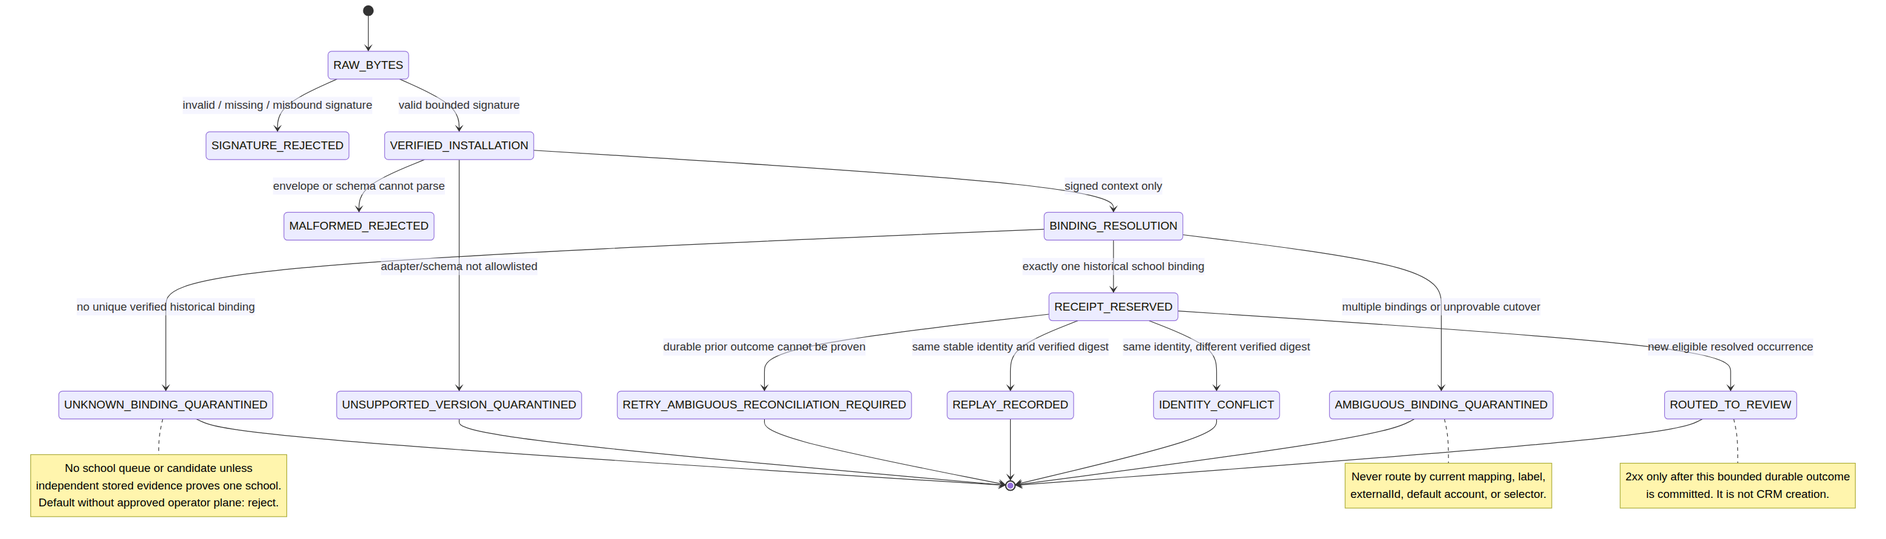
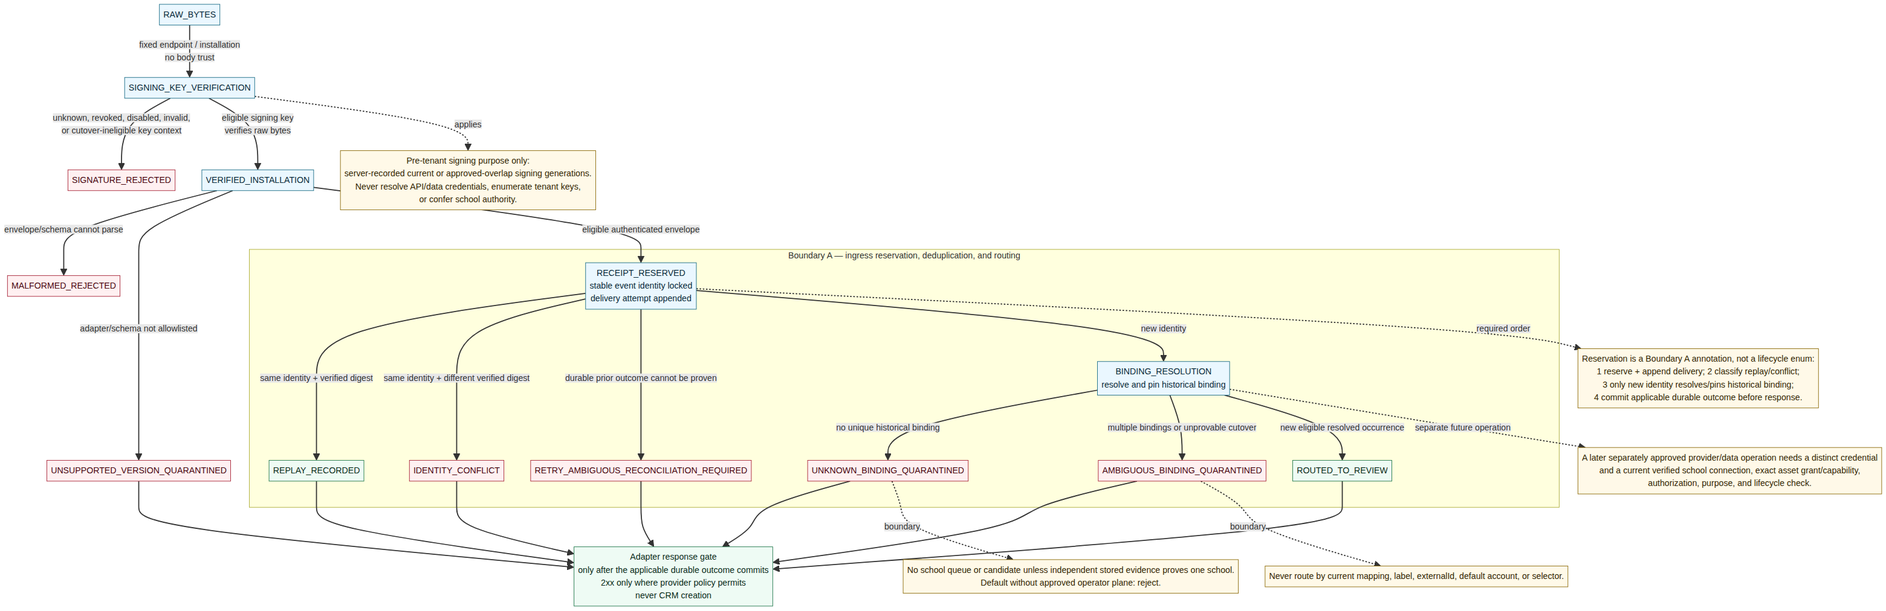
docs(crm): clarify phase 2a review recovery

diff --git a/docs/architecture/PHASE_2A_INTEGRATION_INGRESS_DESIGN.md b/docs/architecture/PHASE_2A_INTEGRATION_INGRESS_DESIGN.md
@@ -44,7 +44,12 @@ For Phase 2A, the only relevant proposed #79 capability is **`LEAD_RETRIEVAL`**.
 
 Only an opaque `credentialBindingId` and version may appear outside the private credential facility. The vault locator, raw secret, refresh token, OAuth code, signature key, expiry, provider inventory, and raw provider errors must never appear in ordinary connection/mapping/receipt/audit/outbox rows, URLs, browser state, telemetry, logs, or staff projections.
 
-Only named, allowlisted server operations may resolve secret material, after rechecking the current installation, credential-binding, exact school connection, asset grant, capability, lifecycle, and operation purpose. Resolution returns secret material only in process memory to that fixed operation and records redacted operation/version audit evidence. It is never browser-callable, a generic provider client, or a `PUBLIC`/runtime SQL helper.
+Only named, allowlisted server operations may resolve secret material under one of two future purpose-scoped contracts:
+
+1. **Pre-tenant webhook-signature verification.** For a fixed server-registered endpoint and installation/subscription context—not a body-supplied school, profile, asset, or other body context—the verifier may recheck the installation plus signing-binding purpose/lifecycle and resolve only the bounded server-recorded signing-key generation(s) eligible under the current or owner-approved overlap/cutover rule. It verifies bounded raw bytes before parsing or trusting body context. Unknown installation/key context, a revoked or disabled binding, a generation outside the permitted cutover set, or an invalid signature fails closed as `SIGNATURE_REJECTED`. This contract confers no school, candidate, asset, CRM, or provider API/data authority and must neither enumerate nor try tenant secrets.
+2. **Post-routing provider/data operation.** A separate non-signing credential may resolve only after a verified route to exactly one school and a live recheck of the verified school connection, exact asset grant and capability, current authorization, credential-binding lifecycle, and operation purpose. A historical routing result alone is not current provider/data authority.
+
+Webhook signing keys and provider API/data-operation credentials are distinct and may never substitute for one another. In either contract, material returns only in process memory to the fixed operation and records only redacted operation/version audit evidence. It is never browser-callable, a generic provider client, or a `PUBLIC`/runtime SQL helper. This is a future authorization contract only: it authorizes no resolver implementation, secret configuration, provider call, or webhook route.
 
 A future owner-approved **Credential Custody Policy** decides platform-managed versus school-supplied custody for each purpose, permitted sharing/exclusivity, secret facility, issuer/scope, stewards, emergency revocation, rotation, and overlap/cutover rules. #80’s local `0700` directory and `0600` plaintext file are useful local setup hygiene only; they are not an encrypted multi-tenant vault.
 
@@ -149,7 +154,7 @@ FORCE RLS, a provider signature, a digest, or #80 local key handling are not sub
 | `source_occurrence_id` | Provider lead occurrence: provider + historical verified asset lineage + `leadgenId` | A UI selection or mapping revision |
 | `mapping_revision_id` / resolution | Append-only historical routing evidence | CRM dedup namespace |
 | `review_case_id` / `review_decision_id` | Case lineage and append-only human evidence | CRM effect |
-| `disposition_request_id` | Original human request keyed by reviewer and original idempotency key/fingerprint | A new browser retry key |
+| `disposition_request_id` | Immutable original human command K, keyed by reviewer, frozen organization/school, original idempotency key, and canonical fingerprint | A new browser retry key or current case version |
 | `crm_effect_id` | Reserved canonical CRM result; must be unique for `source_occurrence_id` | An arbitrary provider event |
 | `replay_id` / `event_conflict_id` | Immutable same-digest replay or different-digest conflict observation | New candidate/case/CRM work |
 
@@ -170,15 +175,19 @@ It commits the complete outcome before a `2xx`. It creates no CRM person/lead, C
 
 ### 5.3 Boundary B — human disposition and canonical CRM effect
 
-A later direct-human command has one tenant transaction, with a deterministic reviewed lock order. It rechecks time, signed human identity, exact school, roles/grants, entitlement, case/evidence/mapping/policy versions, source occurrence, original disposition request, reserved CRM effect, and target pipeline/stage after lock waits. In one atomic outcome it:
+A later direct-human command has one tenant transaction, with a deterministic reviewed lock order. Command K is the immutable `disposition_request_id` plus its original idempotency key/fingerprint, signed-human binding, and frozen organization/school.
+
+**Historical result reconciliation comes first.** Before treating a mounted capsule as a fresh execution, the server may reauthorize the same signed human, frozen school, and current result-read authority to inspect K’s own durable result. If K already committed, it returns only K’s original scoped/redacted disposition/effect result—even when K itself closed or advanced the case version. This historical reconciliation is mutation-free: it creates no new decision, CRM effect, lead, audit, outbox item, inert evidence event, browser key, or action. Changed subject/school, missing or revoked result-read authority, unavailable scoped receipt, controller unmount, or full-document loss deny recovery. Historical result reconciliation is not inbound `ReceiptDisposition.REPLAY`.
+
+**Fresh execution is allowed only after no durable result is proven.** It then rechecks time, signed human identity, exact school, roles/grants, entitlement, case/evidence/mapping/policy versions, source occurrence, original disposition request, reserved CRM effect, and target pipeline/stage after lock waits. Unrelated drift blocks fresh execution without minting a key/action/effect. In one atomic outcome a permitted `CREATE_DISTINCT_NEW_LEAD` command K:
 
 1. appends an immutable review decision;
 2. reserves the unique source-occurrence CRM effect;
 3. invokes a transaction-aware canonical CRM creation primitive;
-4. writes private scoped provenance/result, redacted audit, and inert evidence;
-5. completes the original disposition receipt and terminally transitions the case.
+4. writes private scoped provenance/result, redacted audit, and inert evidence; and
+5. completes K’s original disposition receipt and terminally transitions the case.
 
-Any failure rolls all of this back. Unknown HTTP outcomes reconcile from the original disposition request/effect/case evidence and never retry under a new browser identity.
+Any failure rolls all of this back. Unknown HTTP outcomes reconcile from K’s original disposition request/effect/case evidence and never retry under a new browser identity.
 
 The current public `LeadService.create` opens its own tenant transaction. Future work must **not** call it inside the disposition transaction or duplicate its CRM logic. Instead, a separately reviewed internal `createInExistingTenantTransaction` primitive may be extracted: the public direct-human path continues to wrap it with the existing standard policy and retains ordinary `crm.lead.created` v1 behavior unchanged.
 
@@ -212,6 +221,6 @@ This correction does not authorize:
 
 ## 9. Source and evidence limits
 
-Zernio material remains feasibility/background evidence only; it does not validate a live integration. See the canonical source record proposed in PR [#85](https://github.com/myhonosai/honos/pull/85). This PR does not rerun provider verification, provision credentials, call an API, or establish operational readiness.
+Zernio material remains feasibility/background evidence only; it does not validate a live integration. See the canonical source record proposed in PR [#85](https://github.com/myhonosai/honos/pull/85). This design-only PR did not independently execute or rerun application tests, database proofs, migration checks, provider verification, or connector checks; it does not provision credentials, call an API, or establish operational readiness.
 
 The exact Codex reconciliation is tracked in [PR #86 correction record](PHASE_2A_PR86_CODEX_CORRECTIONS.md) and the proposed proof/rollout sequence in [Phase 2A verification and rollout](PHASE_2A_INTEGRATION_VERIFICATION_AND_ROLLOUT.md).

diff --git a/docs/architecture/PHASE_2A_INTEGRATION_VERIFICATION_AND_ROLLOUT.md b/docs/architecture/PHASE_2A_INTEGRATION_VERIFICATION_AND_ROLLOUT.md
@@ -19,13 +19,12 @@ Manus owns this corrected design, future CRM review/disposition/provenance contr
 
 ## 2. Evidence terminology
 
-Documentation must distinguish exact run facts from historical assertions. This documentation-only PR does not claim it reran tests, migrations, provider verification, or connector checks.
+Documentation must distinguish exact run facts from historical assertions. This documentation-only PR does not claim it reran tests, migrations, provider verification, connector checks, or any runtime proof.
 
-- Canonical baseline cited by Codex: `145d4cf00aa64d4b986ffd2b7a9de5462c7c6469`.
-- Fresh isolated audit evidence received during this correction reports `pnpm test` at that SHA as **1,227** passing workspace tests: API 383, web 565, auth 91, domain 188; 181 migration files; highest migration label 0189.
-- The previously stated 1,818-workspace / 509-API figures are retained only as unverified historical claims until their exact SHA, command, date, and package scope are reproduced. They must not be presented as the current-main total or as proof of this design PR.
+- **Verified source-equivalent current-main baseline.** GitHub Actions run `40265190111` is a verified historical CI baseline for canonical main `145d4cf00aa64d4b986ffd2b7a9de5462c7c6469`: the run head `e43cf37bd15a727645eca2b7452d4db7012ed16e` and that baseline have the identical Git tree `3b606f160b98d0231d439799b2204800c58e764f`. Codex’s verified CI record reports **1,818 workspace tests passed**, including **509 API tests** (not additional to the workspace total), and **41 PostgreSQL proofs passed**. It validated **181 SQL migration files**, with highest identifier **0189**. These are verified historical CI facts for a source-equivalent baseline; they are not an application, database, or migration-test rerun by this design-only PR.
+- **Unverified limited-scope observation.** A report of **1,227** passing workspace tests (auth 91, domain 188, web 565, API 383) was received, but no reproducible sanitized evidence is preserved here for its exact commit/tree, command and stdout, run date, clean/dirty worktree status, working directory, package/discovered-file manifest, skip/filter counts, runtime/dependency versions, or relevant non-secret environment. Its scope and relationship to the verified baseline are therefore not established. It is not the canonical workspace total, and this document does not assert a cause for the **591-test** difference.
 
-A future implementation proof must report exact commit SHA, command, package scope, environment, run date, passed/skipped/blocked result, and cleanup result. A skipped/blocked/incomplete run is never reported as passing.
+A future implementation proof must report exact commit SHA and tree, command, package scope and discovery manifest, sanitized environment and runtime/dependency versions, date, clean/dirty worktree status, passed/skipped/blocked result, and cleanup result. A skipped/blocked/incomplete or limited-scope run is never reported as the full workspace baseline.
 
 ## 3. Required proof matrix
 
@@ -35,12 +34,12 @@ A future implementation proof must report exact commit SHA, command, package sco
 | Historical cutover | A first-seen delayed delivery across A→B remap; event-time/cutover boundary tests; stale current mapping cannot expose A data to B; no automatic reassignment/copy/attach/merge. |
 | Routing outcomes | Exact durable outcome, visibility, acknowledgement, retry, replay, conflict, and reconciliation behavior for all six fail-closed codes; `2xx` only after the bounded outcome commits. |
 | Capacity and operator plane | Installation/connection byte, rate, concurrency, unresolved and dead-letter limits; saturation fails closed with no PII spill; optional operator-plane quarantine permission/retention/audit/metadata-only projection. |
-| Credential custody | No secret/vault locator in ordinary rows/projections/logs; resolver ACL; platform/binding/connection/grant revoke and rotation propagation; no #80 HQ-status substitution for school authority. |
+| Credential custody | No secret/vault locator in ordinary rows/projections/logs; resolver ACL and distinct signing-verification versus provider API/data-operation purposes. Provider-free simulation must prove that only a fixed server-registered endpoint/installation context selects bounded eligible signing-key generations, verifies raw bytes before parse/body-context trust, and rejects unknown, revoked, disabled, invalid, or cutover-ineligible key context without tenant-key enumeration, API/data-key resolution, or school authority. A separate post-routing provider/data-operation proof must require verified school connection, exact asset grant/capability, current authorization, operation purpose, and lifecycle; it must prove rotation/revocation/cutover propagation and no #80 HQ-status substitution for school authority. |
 | Candidate privacy | V1 field allowlist; invalid/unknown-field rejection without retained rejected value; queue/audit/outbox/error/URL/storage/telemetry redaction; encrypted detail access only after owner-approved KMS/retention/backup/rotation implementation. |
 | Receipt identities | Delivery attempt/event/source occurrence/mapping resolution/replay/conflict separation; same-digest replay; different-digest immutable conflict; reconnect/remap cannot form a new dedup namespace. |
-| Human disposition | Unique `source_occurrence_id` CRM effect across two reviewers and browser keys; original idempotency/fingerprint conflict; deterministic lock ordering; rollback injection; stage/permission/entitlement revocation during wait; unknown-result reconciliation. |
+| Human disposition | Unique `source_occurrence_id` CRM effect across two reviewers and browser keys; original idempotency/fingerprint conflict; deterministic lock ordering; rollback injection; stage/permission/entitlement revocation during wait; and the explicit regression: commit K → record one decision/effect/result/audit/events → close/advance case V to V+1 → drop response → same mounted controller restores same-subject/frozen-school/current-read authority → exact K returns the same result with no second lead/decision/effect/audit/outbox/inert event. Paired no-result branch: unchanged current gates allow exactly one original-K execution; unrelated drift blocks it with no effect/new key. |
 | Canonical CRM behavior | Future transaction-aware reuse passes existing direct-human LeadService regressions unchanged; no nested transaction assumption; ordinary `crm.lead.created` v1 unchanged; integration evidence event structurally excluded from generic outbox claiming, automation, Action Engine, and consumers. |
-| UI privacy and recovery | Explicit load; no data before scope; visual/accessibility-tree concealment; pending blur/hidden settlement; post-commit response loss with original-key exact retry; 401 global invalidation versus local 403; changed user/school destruction; disabled discard while unsettled; acknowledged abandonment; document-loss non-survival. |
+| UI privacy and recovery | Explicit load; no data before scope; visual/accessibility-tree concealment; pending blur/hidden settlement; post-commit response loss with explicit original-K reconciliation before any fresh execution; 401 global invalidation versus local 403; changed user/school/read-revocation denial; disabled discard while unsettled; acknowledged abandonment; and document-loss non-survival. |
 | Presentation/accessibility | English/Korean/Spanish static catalog coverage; keyboard, screen reader, focus, contrast, reflow, reduced motion, 44px phone targets, no overflow; Modern/Classic/Big-Button switch creates no data/authority/request/capsule effect. |
 
 ## 4. Focused implementation PR breakdown — after owner approval only

diff --git a/docs/architecture/PHASE_2A_PR86_CODEX_CORRECTIONS.md b/docs/architecture/PHASE_2A_PR86_CODEX_CORRECTIONS.md
@@ -1,6 +1,6 @@
 # PR #86 — Codex Architecture Review Reconciliation
 
-> **Result: all six documentation corrections are incorporated; final design approval remains NO-GO pending the owner decisions and dependency sequence below.**
+> **Result: R1–R6 and the narrow N1–N4 documentation corrections are incorporated; final design approval remains NO-GO pending Codex re-review, owner decisions, and the dependency sequence below.**
 >
 > This is a design reconciliation record. It does not implement a connector, call a provider, process customer data, create a schema/API, or authorize a merge, deployment, or pilot.
 
@@ -21,11 +21,20 @@ PR #79 and #80 are useful unmerged foundations, not installed runtime facts. PR 
 | Finding | Corrected design response | Still required before implementation |
 | --- | --- | --- |
 | **R1 — tenant routing and delayed events** | Separates provider installation, private credential binding, school connection, verified asset grant, historical binding/mapping, and operator-plane quarantine. Adds exact six fail-closed outcomes, pinning, A→B delayed-event denial, bounded acknowledgement/retry, and no current-mapping fallback. | Owner decision on operator plane, remap/cutover rule, asset evidence, capacity/retention; provider-free negative/security proofs. |
-| **R2 — connection ownership and credential custody** | Defines distinct platform installation, private credential binding, school connection, school asset/capability grant, HQ configuration, and future organization administration. Preserves #79 capability granularity and #80 server-only status boundary. | Versioned custody policy; approved secret facility and resolver ACL; rotation/revocation/sharing/exclusivity proof. |
+| **R2 — connection ownership and credential custody** | Defines distinct platform installation, private credential binding, school connection, school asset/capability grant, HQ configuration, and future organization administration. It now distinguishes pre-tenant fixed endpoint/installation-context signing-key verification from post-routing provider/data credential resolution; signing keys and API/data keys cannot substitute for one another. Preserves #79 capability granularity and #80 server-only status boundary. | Versioned custody policy; approved secret facility and narrow resolver ACL; provider-free rotation/revocation/cutover proofs for both purposes; no #80 status substitution. |
 | **R3 — minimal protected candidate contract** | Defines `IntegrationNormalizedCandidateV1`, metadata-only queue, no-store protected detail, field statuses, HMAC evidence digest, raw-body prohibition, and proposed envelope-encryption/retention gate. | Owner PII field, encryption/KMS, region/processor, retention/deletion/backup/rotation and reviewer policy approval. |
 | **R4 — deduplication and canonical CRM transaction** | Splits delivery attempt, stable event, source occurrence, mapping resolution, review decision, disposition request, CRM effect, replay, and conflict. Defines ingress and human-disposition transaction boundaries; preserves normal `crm.lead.created` v1. | Joint contract checkpoint, one migration reservation, transaction-aware canonical create extraction, enforced inert-event non-dispatch proof. |
-| **R5 — UI privacy cleanup and exact retry** | Replaces blanket retry clearing with immediate concealment plus one mounted-memory immutable request capsule; separates read epoch from command ownership; documents 401/403, reauthorization, unknown result, disabled discard, abandonment, full-document loss, accessibility, localization, and three-mode equivalence. | Backend case/disposition contract and UI controller/transport tests after approval. |
-| **R6 — duplicate records, vocabulary, and evidence** | Declares #85→rebased #86 dependency, introduces plane-owned state vocabulary, removes cross-plane terms, separates historical and fresh test evidence, and retains disabled Verified Auto-Create. | #85 review/merge, #86 rebase/reconciliation, #79/#80 main reconciliation, and one joint ownership checkpoint. |
+| **R5 — UI privacy cleanup and exact retry** | Replaces blanket retry clearing with immediate concealment plus one mounted-memory immutable request capsule; separates read epoch from command ownership; documents 401/403, reauthorization, unknown result, disabled discard, abandonment, full-document loss, accessibility, localization, and three-mode equivalence. It now requires an authorized mutation-free reconciliation of original command K before any fresh execution gate, so K-caused version advance cannot erase its own recovery. | Backend case/disposition contract and UI controller/transport tests after approval. |
+| **R6 — duplicate records, vocabulary, and evidence** | Declares #85→rebased #86 dependency, introduces plane-owned state vocabulary, removes cross-plane terms, retains disabled Verified Auto-Create, and records GitHub Actions run `40265190111` as the verified source-equivalent canonical-main baseline. The 1,227 result remains an unverified limited-scope observation without a reproducible sanitized evidence record. | #85 review/merge, #86 rebase/reconciliation, #79/#80 main reconciliation, and one joint ownership checkpoint. |
+
+## Final targeted Codex corrections
+
+| Finding | Corrected design response | Still required before implementation |
+| --- | --- | --- |
+| **N1 — post-commit recovery** | Separates historical result reconciliation of committed original command K from fresh execution after no result is proven. Reconciliation requires the same signed human, frozen school, and current result-read authority; it returns only K’s original scoped result and is mutation-free despite K-caused case version advance. | Provider-free commit/drop-response/V+1/exact-K regression, authorization/revocation negatives, and reviewed backend contract. |
+| **N2 — pre-tenant signing resolution** | Defines bounded signing-key resolution only for a fixed server-registered endpoint and installation context before parsing/trusting body context. It grants no tenant/provider-data authority and cannot enumerate tenant keys. Post-routing data/API resolution remains a separate live school/grant/capability/authorization/purpose/lifecycle check. | Owner custody policy, narrow resolver ACL, and provider-free negative/rotation/revocation/cutover proofs. |
+| **N3 — evidence accounting** | Records 1,818 workspace tests including 509 API tests, 41 PostgreSQL proofs, and 181 migrations through 0189 as Codex-verified historical CI facts for a source-equivalent main tree. Does not claim this docs-only PR reran them. The 1,227 report is explicitly unverified/limited-scope, with no invented cause. | Sanitized reproducible record if the 1,227 observation is to be promoted or explained; future exact-head implementation runs must supply full scope evidence. |
+| **N4 — Boundary A/B diagram precision** | Diagrams now show Boundary A reservation → deduplication → historical routing → durable outcome → adapter response, and show Boundary B’s create path as one atomic decision/case/effect/canonical-CRM/provenance/audit result commit. Boundary annotations remain outside the receipt, review, CRM, and browser state planes. | Provider-free fault/concurrency tests and visual re-review of rendered diagrams; no implementation is authorized by an annotation. |
 
 ## Implementation is still prohibited
 

diff --git a/docs/architecture/INTEGRATION_REVIEW_UI_SPEC.md b/docs/architecture/INTEGRATION_REVIEW_UI_SPEC.md
@@ -107,31 +107,32 @@ It is never rendered while shielded, placed in React-visible queue/detail state,
 
 Read generation and request ownership are separate. A privacy boundary invalidates reads and presentation facts, but it does not cancel a consequential request already sent. Only the currently mounted command instance may settle its own busy/unknown/result state behind the shield. A `finally` handler may clear busy only when its command-instance ID still owns the mounted capsule. Stale callbacks from an earlier case, prior capsule, discarded controller, changed scope, or unmounted controller are ignored.
 
-### 5.3 Session, authorization, and exact retry
+### 5.3 Session, authorization, historical result reconciliation, and fresh execution
 
 A confirmed `401` from an authenticated same-origin Integration Review read, command, or associated authenticated staff transport dispatches `hon:session-invalidated`; every co-mounted Integration Review surface conceals immediately. A `403` is a local current-resource authorization denial: it conceals and blocks this surface but does not assert that the whole session ended or dispatch session invalidation.
 
-Neither status automatically resends a command. While the controller remains mounted, `Verify access and resume` may consider a capsule only after it proves:
+Neither status automatically resends a command. While the controller remains mounted, `Verify access and resume` first performs an explicit, mutation-free reconciliation of the original immutable command K. It may return K’s original durable scoped/redacted result only after proving:
 
 1. the same signed human subject;
 2. the exact frozen school;
-3. fresh `crm.integration_review.read` authority for any reveal;
-4. current `crm.integration_review.decide` and normal CRM-create authority for a retry; and
-5. still-matching case/evidence/mapping/policy versions.
+3. fresh `crm.integration_review.read` authority for the original result; and
+4. that K’s original idempotency key/fingerprint and private receipt are still available to that subject/school.
 
-The server independently repeats authorization. A changed subject, changed school, missing/revoked relevant permission, unavailable/mismatched case, or controller unmount destroys the capsule; it must never be revealed or replayed for another principal or school.
+If K already committed, a case/evidence/mapping/policy version advance caused by K does **not** destroy K or require current decide/create authority just to return that original result. This historical result replay creates no new decision, lead, CRM effect, audit, outbox effect, inert evidence event, key, request body, or action.
+
+Only when reconciliation proves that K has **no** durable result may the UI offer fresh execution of the unchanged capsule. Fresh execution requires current `crm.integration_review.decide` and normal CRM-create authority, still-matching case/evidence/mapping/policy versions, and every current mutation eligibility check. Unrelated drift blocks fresh execution without allocating a new key/action/effect. The server independently repeats every authorization and mutation check. A changed subject, changed school, missing/revoked relevant permission, unavailable scoped receipt, controller unmount, reload, or full-document loss destroys the capsule; it must never be revealed or replayed for another principal or school.
 
 ### 5.4 Unknown outcome and abandonment
 
 Network loss, timeout, redirect, unexpected status, malformed/unverifiable success, and any response that cannot prove the exact durable decision/CRM result are `UNKNOWN_OUTCOME`. The UI assumes neither success nor failure.
 
-After settlement, the shield may offer only an explicit **Retry exact unchanged decision** using the unchanged capsule and original idempotency key, after the reauthorization gate. It never allocates a fresh key or silently rebuilds the command.
+After an unknown outcome, the shield may offer only explicit **Reconcile original decision**. If that proves a committed result, it displays the result behind the authorized shield and stops. If it proves no durable result, it may offer **Retry exact unchanged decision** using the unchanged capsule and original idempotency key after the fresh-execution gate. It never allocates a fresh key, silently rebuilds the command, or uses a version mismatch to discard K before reconciliation.
 
 Discard, close, navigation, case switch, and reset controls that could drop a capsule are disabled while the command is unsettled. After an unknown outcome is settled, deliberate abandonment requires a separate acknowledgement:
 
 > This removes browser-only recovery. It cannot cancel, reverse, or prove the result of a server action that may already have completed.
 
-Abandonment destroys only the local capsule. A later durable-result lookup is a separate server design; it is not created by this UI.
+Abandonment destroys only the local capsule. A later durable-result lookup after capsule abandonment is a separate server design; it is not created by this UI.
 
 ### 5.5 Full-document limit
 

diff --git a/TODO.md b/TODO.md
@@ -18,6 +18,15 @@
 
 Evidence: all three Mermaid diagrams rendered; relative document links, required R1–R6 terms, documentation-only scope, and `git diff --check` passed. An independent read-only follow-up audit confirmed the malformed, unsupported-version, replay, and retry-ambiguous routing branches are distinct and that no runtime/migration/provider/test/configuration source changed. Final design approval remains **NO-GO** until PR #85/#79/#80 reconciliation, owner policy decisions, joint contract checkpoint, and later provider-free proof gates are complete. See the [Codex correction record](docs/architecture/PHASE_2A_PR86_CODEX_CORRECTIONS.md).
 
+### PR #86 final targeted correction gate — N1 through N4
+
+- [x] **N1 — exact retry after an already committed CRM command:** historical result recovery is now distinct from fresh execution. For original command K that already committed, the design reauthorizes access to its immutable request/idempotency key/fingerprint and returns only its existing durable disposition/CRM-effect result despite K-caused case version advance; it creates no second lead, decision, audit, outbox, inert evidence event, or retry identity. Only after no durable result is proven may unchanged K undergo current fresh-execution checks; unrelated drift denies without an effect. The mounted-memory/privacy/no-auto-retry boundary and commit-K → response-lost → V+1 → authorized recovery → same-result/zero-duplicate regression remain explicit.
+- [x] **N2 — pre-tenant signing-key resolution:** the design now splits purpose-scoped resolution: fixed server-registered endpoint plus installation/subscription context may resolve only bounded eligible webhook-signing-key generations to authenticate raw bytes before parsing/trusting body context; it cannot select via untrusted school/profile data, enumerate tenant secrets, grant school/CRM/candidate/provider-API authority, or proceed on unknown/revoked/disabled/cutover-ineligible context. A distinct post-routing provider/data operation requires verified school connection, exact asset/capability grant, current authorization, credential purpose, and lifecycle. Signing-key/API-key separation, rotation, revocation, cutover, and #79/#80 compatibility remain explicit without editing those PRs.
+- [x] **N3 — verified evidence accounting:** the corrected record reports Codex-verified GitHub Actions run `40265190111` as the historical source-equivalent baseline for main `145d4cf00aa64d4b986ffd2b7a9de5462c7c6469`: 1,818 workspace tests including 509 API tests, 41 PostgreSQL proofs, and 181 migration files through `0189`. It treats 1,227 only as an unverified limited-scope observation absent a sanitized reproducible record, invents no cause, and states that this design-only PR did not rerun application/database/migration checks.
+- [x] **N4 — Boundary A/B diagram clarity:** rendered Mermaid now shows Boundary A as reservation → deduplication classification → historical routing → durable outcome → adapter response and Boundary B as one atomic create-path commit of review decision/case closure, unique CRM effect, canonical CRM creation, provenance/result, audit, and inert evidence. Receipt/review/CRM/browser planes and all named fail-closed states remain consistent.
+
+Evidence: all three revised Mermaid sources rendered and were visually reviewed; documentation link/invariant/scope validation and `git diff --check` passed. An independent read-only audit found N1–N4 mutually consistent and confirmed only `TODO.md`, five architecture Markdown files, three Mermaid files, and their three PNG renders changed. Final design approval remains **NO-GO** pending Codex re-review, #85/#79/#80 reconciliation, owner decisions, joint contract checkpoint, and future provider-free proofs.
+
 ## Commercial B1 — provider subscription schedule foundation (Codex)
 
 - [x] Baseline `f2c040a12a1447f723a182fe21e73bcf545c6698`: additive 0189, immutable exact-school A2 generation intent, closed human-authorized APIs, independent HQ read, private/RLS/least-privilege and idempotency/audit/inert-outbox protections. No provider binding or billing activation.

diff --git a/docs/architecture/PHASE_2A_INTEGRATION_STATE_VOCABULARY.md b/docs/architecture/PHASE_2A_INTEGRATION_STATE_VOCABULARY.md
@@ -18,6 +18,8 @@ Connection configuration, inbound receipt handling, human review, CRM execution,
 
 `ABSENT` is a projection-only condition when no connection row exists. It is not a persisted lifecycle. Capabilities are independent grants, not lifecycle states.
 
+Credential-binding purpose is immutable and does not create another lifecycle enum. A signing-verification binding may be resolved before tenant routing only for the fixed server-registered endpoint/installation context and only for eligible current or approved-overlap signing generations; it verifies raw bytes before any body context is trusted and grants no school authority. A provider API/data-operation binding is distinct and may resolve only after verified routing plus the current school-connection, exact-grant/capability, authorization, purpose, and lifecycle checks. `ROTATING` is limited to the owner-approved generation cutover; `REVOKED` or `DISABLED` blocks the dependent purpose. A signing key is never an API/data-operation key, and an API/data-operation key is never a signing key.
+
 ### Derived UI projections
 
 | Projection | Derivation | Must not imply |
@@ -51,6 +53,8 @@ They are durable outcome/reason contracts with response, visibility, retry, and 
 
 A `REPLAY` is a new delivery observation linked to its canonical event and original result. It is not a new case, CRM work item, or deduplication namespace.
 
+**Boundary A diagram annotation — not a state:** `RECEIPT_RESERVED` means that the stable `event_id` is locked and delivery-attempt evidence is appended. It is not a `ReceiptState`, `ReceiptDisposition`, or a seventh fail-closed outcome. For an eligible authenticated envelope, the only order is reservation → `NEW`/`REPLAY`/`CONFLICT` deduplication classification → historical-binding routing and, only when permitted, source occurrence/candidate/case → complete durable outcome → adapter-specific response. A `2xx` may occur only after that commit and never states CRM creation. `REPLAY_RECORDED` is the diagram label for the durable outcome associated with `ReceiptDisposition.REPLAY`, not another `ReceiptState`; acknowledgement is a transport action, not a state.
+
 ## 3. Review-case plane
 
 | Concept | Proposed values | Boundary |
@@ -74,6 +78,10 @@ A `REPLAY` is a new delivery observation linked to its canonical event and origi
 - `RECONCILIATION_REQUIRED`
 
 `CREATED_BY_SEPARATE_HUMAN_COMMAND` is display/audit wording for `SUCCEEDED`, not an enum. Exact idempotent replay returns the same effect/result. Outbox event names and versions are independent contracts and cannot be inferred from execution state.
+
+**Boundary B diagram annotation — not a state:** for `CREATE_DISTINCT_NEW_LEAD`, one tenant transaction records the immutable review decision and `DECISION_RECORDED`/`CLOSED` case result, reserves the unique CRM effect, invokes canonical CRM creation, and writes scoped private provenance/result, redacted audit, inert evidence, and the original disposition receipt. These facts commit together or roll back together; a create-path case cannot successfully be `CLOSED` without its effect/result. A non-create disposition records its decision/closure result with no CRM effect. `RESERVED` and `IN_PROGRESS` remain CRM-execution-plane values; they do not independently authorize or prove a closed review case.
+
+**Historical result reconciliation and fresh execution are operations, not lifecycle values.** A mounted command K may have a browser `UNKNOWN_OUTCOME` without changing `CrmExecutionState`. After same-subject, frozen-school, current result-read reauthorization, historical reconciliation returns only K’s existing result and is not inbound `ReceiptDisposition.REPLAY`. Only when no durable K result exists may fresh execution reapply current version/mutation gates. K-caused case version advance never alone destroys its recovery identity; unrelated drift still blocks fresh execution.
 
 ## 5. Browser-controller plane — explicitly nondurable
 
